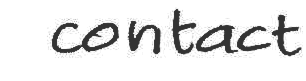
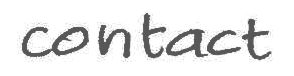
Change to new images and add comments

diff --git a/src/pages/projects/[id].tsx b/src/pages/projects/[id].tsx
@@ -28,11 +28,13 @@ export async function getStaticProps ({ params }: { params: { id: string } }) {
   }
 }
 
+// Text and back to top button for mobile
 function Mobile ({ project }: { project: ProjectType }) {
   const [width] = useViewport()
 
   if (width < 1000) {
     return <div className={styles.mcontainer}>
+      {/* Mobile text */}
       <Image
         src={project.textMobile}
         alt="Text describing architectural project"
@@ -40,6 +42,7 @@ function Mobile ({ project }: { project: ProjectType }) {
         width="983"
         height="1267"
       />
+      {/* Back to top button */}
       <button 
         className={styles.top}
         type="button" 
@@ -47,7 +50,7 @@ function Mobile ({ project }: { project: ProjectType }) {
         onClick={() => window.scrollTo(0,0)}
       >
         <Image
-          src="/images/handwritten/Arrows Right Black.png"
+          src="/images/handwritten/Arrows Right.png"
           alt="Back to top"
           height="43"
           width="43"
@@ -63,7 +66,6 @@ export default function Project ({ project }: { project: ProjectType }) {
 
   const photos = project.photos
   const length = photos.length - 1
-
   const [position, setPosition] = useState(0)
   const [distance, setDistance] = useState(0)
   const galleryRef = useRef<HTMLDivElement>(null)
@@ -89,14 +91,25 @@ export default function Project ({ project }: { project: ProjectType }) {
     </Head>
     <Wrapper>
       <div className={styles.root}>
+        {/* Left arrow */}
         <button className={styles.arrow} onClick={() => setPosition((position > 0) ? (position - 1) : length)}>
           <Image
-            src="/images/handwritten/Arrows Left Black.png"
+            src="/images/handwritten/Arrows Left.png"
             alt="Previous image"
-            width="50"
+            width="80"
+            height="60"
+          />
+        </button>
+        {/* Right arrow */}
+        <button className={`${styles.arrow} ${styles.right}`} onClick={() => setPosition((position < length) ? (position + 1) : 0)}>
+          <Image
+            src="/images/handwritten/Arrows Right.png"
+            alt="Next image"
+            width="100"
             height="50"
           />
         </button>
+        {/* Sliding image gallery */}
         <div className={styles.container}>
           <div className={styles.slider} ref={galleryRef} style={{ transform: `translateX(-${distance}px)` }}>
             {project.photos.map((photo) => (
@@ -112,14 +125,6 @@ export default function Project ({ project }: { project: ProjectType }) {
           </div>
           <Mobile project={project} />
         </div>
-        <button className={`${styles.arrow} ${styles.right}`} onClick={() => setPosition((position < length) ? (position + 1) : 0)}>
-          <Image
-            src="/images/handwritten/Arrows Right Black.png"
-            alt="Next image"
-            width="50"
-            height="50"
-          />
-        </button>
       </div>
     </Wrapper>
   </>

diff --git a/src/components/wrapper.tsx b/src/components/wrapper.tsx
@@ -18,7 +18,7 @@ export default function Wrapper ({ children }: { children: ReactNode }) {
       <nav className={styles.nav}>
         <Link href="/">
           <Image
-            src="/images/handwritten/CAArchitects_LogoBlack.png"
+            src="/images/handwritten/CAArchitects_Logo.png"
             alt="Conrad Margoles Architects logo"
             width="300"
             height="100"
@@ -27,22 +27,29 @@ export default function Wrapper ({ children }: { children: ReactNode }) {
         </Link>
         {(width < 1000) &&
           <button className={styles.menu} onClick={() => setExpanded(!expanded)}>
-            <svg viewBox="0 0 100 80" width="40" height="40">
-              <rect width="100" height="5"></rect>
-              <rect y="30" width="100" height="5"></rect>
-              <rect y="60" width="100" height="5"></rect>
-            </svg>
+            <Image
+              src="/images/handwritten/Burger Menu.png"
+              alt="Burger menu"
+              width="80"
+              height="80"
+            />
           </button>
         }
         {(width > 1000 || expanded) &&
           <div className={styles.menuItems}>
             {menuItems.map((item) => (
-              <Link href={`/${item.toLowerCase()}`} key={item} onClick={() => setExpanded(false)}>
+              <Link
+                className={styles.menuItem}
+                href={`/${item.toLowerCase()}`} 
+                key={item} 
+                onClick={() => setExpanded(false)}
+              >
                 <Image
-                  src={`/images/handwritten/${item}${width < 1000 ? 'Center' : ''}.png`}
+                  src={`/images/handwritten/${item}.png`}
                   alt={item}
-                  width="100"
-                  height="25"
+                  width="0"
+                  height="0"
+                  sizes="100vw"
                   className={styles.image}
                 />
               </Link>

diff --git a/src/pages/index.tsx b/src/pages/index.tsx
@@ -10,8 +10,6 @@ import Wrapper from '@components/wrapper'
 import styles from '@styles/Landing.module.css'
 
 export async function getStaticProps () {
-  // images are located in images/home
-  // fetch a list of all files in that directory
   const files: string[] = await promises.readdir('public/images/home')
   return { props: { files } }
 }
@@ -47,32 +45,32 @@ export default function Landing ({ files }: Props) {
     <Head>
       <title>Conrad Margoles Architects</title>
     </Head>
-    {/* Backwards button */}
+    {/* Back button */}
     <button 
       className={styles.arrow} 
       onClick={() => setCurrent(current > 0 ? (current - 1) : (files.length - 1))}
     >
       <Image
-        src="images/handwritten/Arrows Left Black.png"
+        src="images/handwritten/Arrows Left.png"
         alt="Previous image"
-        width="50"
-        height="50"
+        width="80"
+        height="60"
       />
     </button>
-    {/* Forwards button */}
+    {/* Forward button */}
     <button 
       className={`${styles.arrow} ${styles.right}`} 
       onClick={() => setCurrent(current < (files.length - 1) ? (current + 1) : 0)}
     >
       <Image
-        src="images/handwritten/Arrows Right Black.png"
+        src="images/handwritten/Arrows Right.png"
         alt="Next image"
-        width="50"
+        width="80"
         height="50"
       />
     </button>
-    {/* Logo */}
     <Link href="/portfolio">
+      {/* Logo */}
       <Image
         src="images/handwritten/CAArchitects_LogoWhite.png"
         alt="Conrad Margoles Architects logo"
@@ -80,6 +78,7 @@ export default function Landing ({ files }: Props) {
         width="300"
         height="100"
       />
+      {/* Gallery */}
       <section>
         {files.map((file, index) => (
           <div className={index === current ? `${styles.slide} ${styles.active}` : styles.slide} key={index}>

diff --git a/src/pages/_document.tsx b/src/pages/_document.tsx
@@ -8,17 +8,17 @@ export default function Document () {
         <link rel='icon' href='images/favicon.ico' />
         {/* Search Engines */}
         <meta name='description' content='Conrad Margoles Architects' />
-        <meta name='image' content='/images/handwritten/CAArchitects_LogoBlack.png' />
+        <meta name='image' content='/images/handwritten/CAArchitects_Logo.png' />
         {/* Schema.org for Google */}
         <meta itemProp='name' content='Conrad Margoles Architects' />
         <meta itemProp='description' content='Conrad Margoles Architects' />
-        <meta itemProp='image' content='/images/handwritten/CAArchitects_LogoBlack.png' />
+        <meta itemProp='image' content='/images/handwritten/CAArchitects_Logo.png' />
         {/* Open Graph (Facebook, Discord, SMS) */}
         <meta property='og:title' content='Conrad Margoles Architects' />
         <meta property='og:description' content='Conrad Margoles Architects' />
         <meta property='og:type' content='website' />
         <meta property='og:url' content='https://conradmargoles.com' />
-        <meta property='og:image' content='/images/handwritten/CAArchitects_LogoBlack.png' />
+        <meta property='og:image' content='/images/handwritten/CAArchitects_Logo.png' />
         <meta property='og:image:type' content='image/png' />
         <meta property='og:image:width' content='993' />
         <meta property='og:image:height' content='277' />

diff --git a/src/styles/Wrapper.module.css b/src/styles/Wrapper.module.css
@@ -38,13 +38,31 @@
 }
 
 .menuItems {
-  display: flex;
-  flex-direction: column;
+  display: grid;
+  grid-template-rows: 38px 32px 29px;
+  justify-content: center;
   gap: 1rem;
 }
 
 .menuItems :nth-child(3) {
-  margin-top: 5px;
+  margin-top: 10px;
+}
+
+.menuItem {
+  height: 100%;
+  display: flex;
+  justify-content: flex-end;
+}
+
+.menuItem > img {
+  width: auto;
+  height: 100%;
+}
+
+@media (min-width: 1001px) {
+  .menuItems :nth-child(2) {
+    margin-right: 5px;
+  }
 }
 
 @media (max-width: 1000px) {
@@ -69,11 +87,13 @@
     top: 115px;
     left: 0px;
     width: 100%;
-    display: flex;
-    flex-direction: column;
     align-items: center;
     background-color: white;
-    padding: 1rem 0;
+    padding: 1rem 0 2rem;
     z-index: 1;
+  }
+
+  .menuItem {
+    justify-content: center;
   }
 }

diff --git a/src/styles/Landing.module.css b/src/styles/Landing.module.css
@@ -12,7 +12,7 @@
   position: absolute;
   top: 50%;
   transform: translateY(-50%);
-  left: 2rem;
+  left: 1rem;
   cursor: pointer;
   z-index: 1;
 }

diff --git a/src/styles/Project.module.css b/src/styles/Project.module.css
@@ -33,7 +33,7 @@
 }
 
 .right {
-  right: 0;
+  right: -1.4rem;
   left: auto;
 }
 
